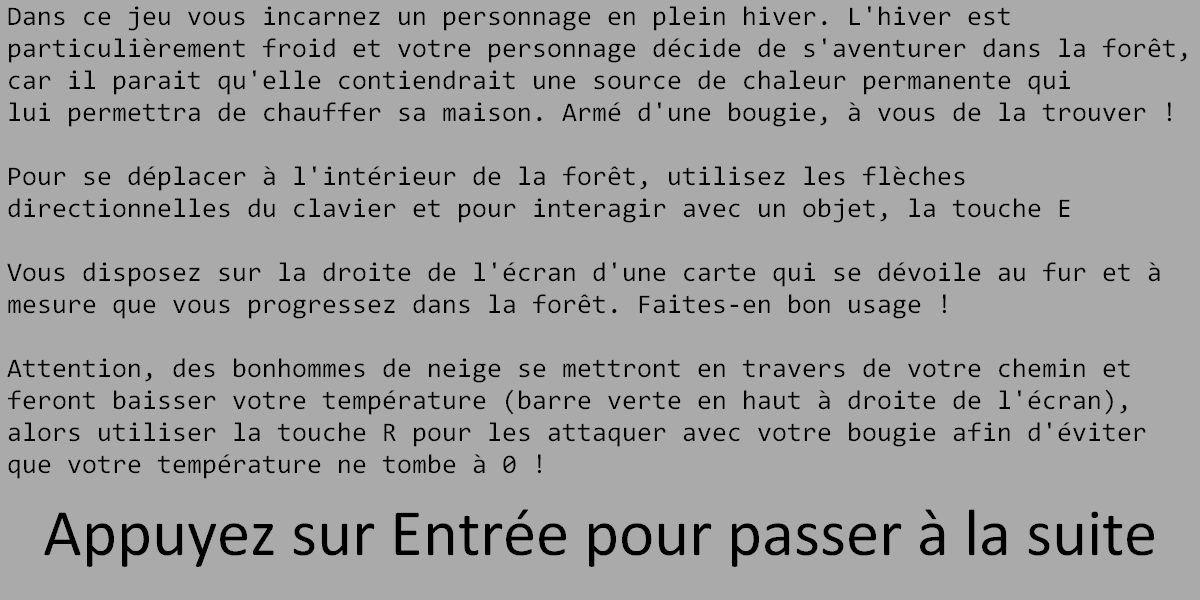
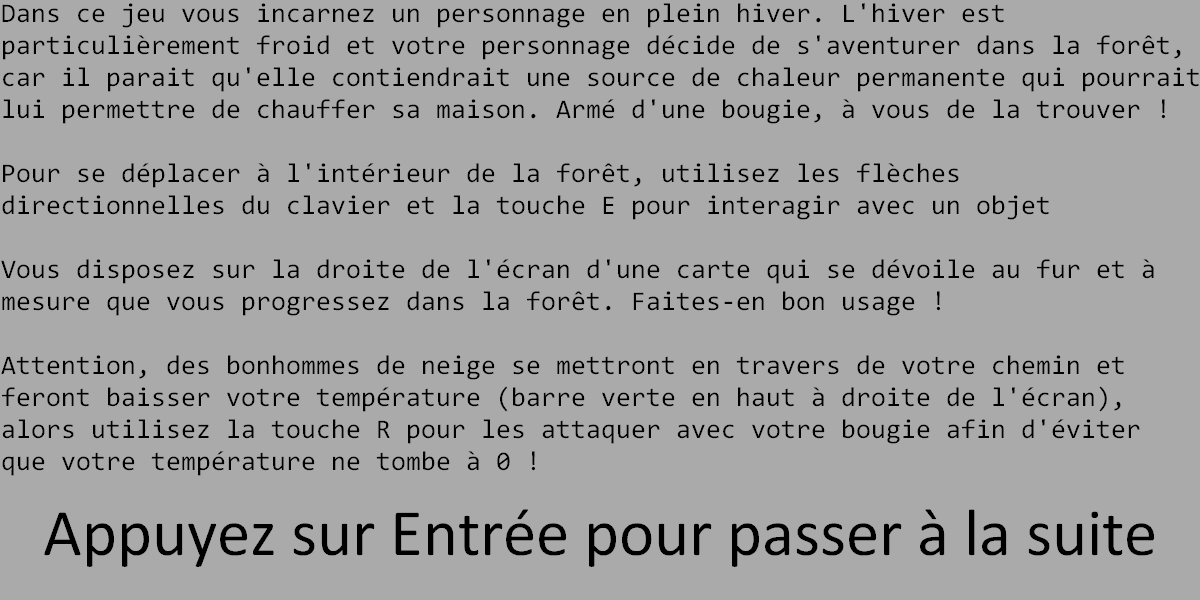
ajout du tuto dans le jeu

diff --git a/Menu.py b/Menu.py
@@ -120,6 +120,33 @@ def menu_principal():
                 int(70*Affichage.TAILLE_ECRAN[1]/600))
     return menu
 
+#############################################################################################################################################################################
+
+def lance_tutoriel():
+    #définition et affichage de l'image de fond
+    fond = pygame.image.load("ressources/fondtuto1.png").convert()
+    fond = pygame.transform.scale(fond,(Affichage.TAILLE_ECRAN[0], Affichage.TAILLE_ECRAN[1]))
+    Affichage.ECRAN.blit(fond, (0, 0))
+
+    continuer = True
+    while continuer :
+        for event in pygame.event.get():
+            if event.type == pygame.KEYDOWN :
+                if event.type == pygame.QUIT: #si le joueur appuie sur la croix
+                            continuer = False
+        
+                if event.key == pygame.K_RETURN: #si le joueur appuie sur entrée
+                    fond = pygame.image.load("ressources/fondtuto2.png").convert()
+                    fond = pygame.transform.scale(fond,(Affichage.TAILLE_ECRAN[0], Affichage.TAILLE_ECRAN[1]))
+                    Affichage.ECRAN.blit(fond, (0, 0))
+
+                if event.key == pygame.K_ESCAPE: #si le joueur appuie sur échap
+                    continuer = False
+
+        #Rafraichissement de l'affichage
+        pygame.display.update()
+
+
 #################################################################################################################################################################
 
 def menu_options():

diff --git a/Main.py b/Main.py
@@ -31,8 +31,8 @@ def traiter_choix_menu_principal(action, options):
             jeu.executer_jeu()
             enjeu=jeu.rejouer
 
-##    elif action == 1 :  #Tutoriel
-##        lance_tutoriel()
+    elif action == 1 :  #Tutoriel
+        lance_tutoriel()
         
     elif action ==2: #Options
         lance_options(options)
